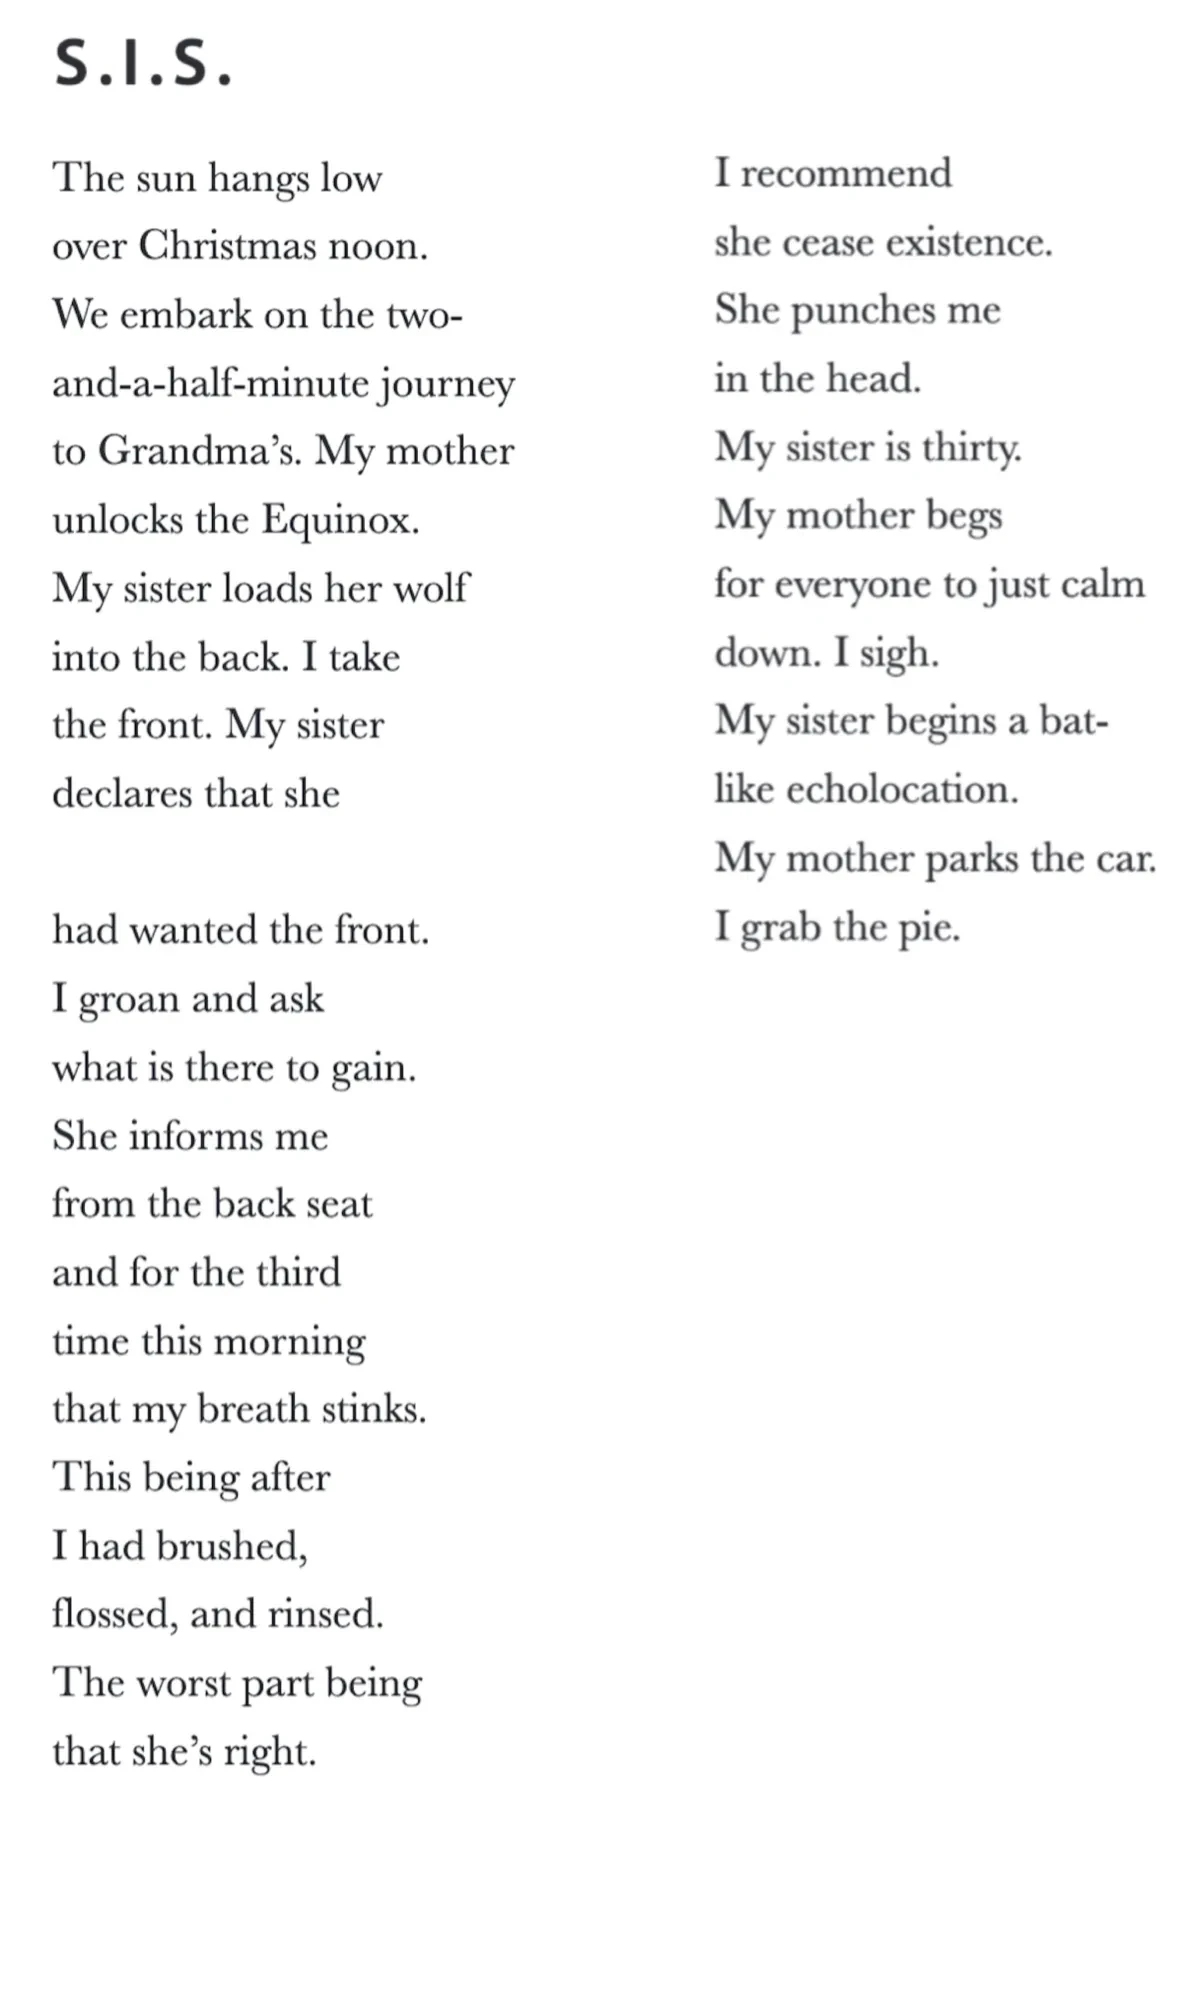
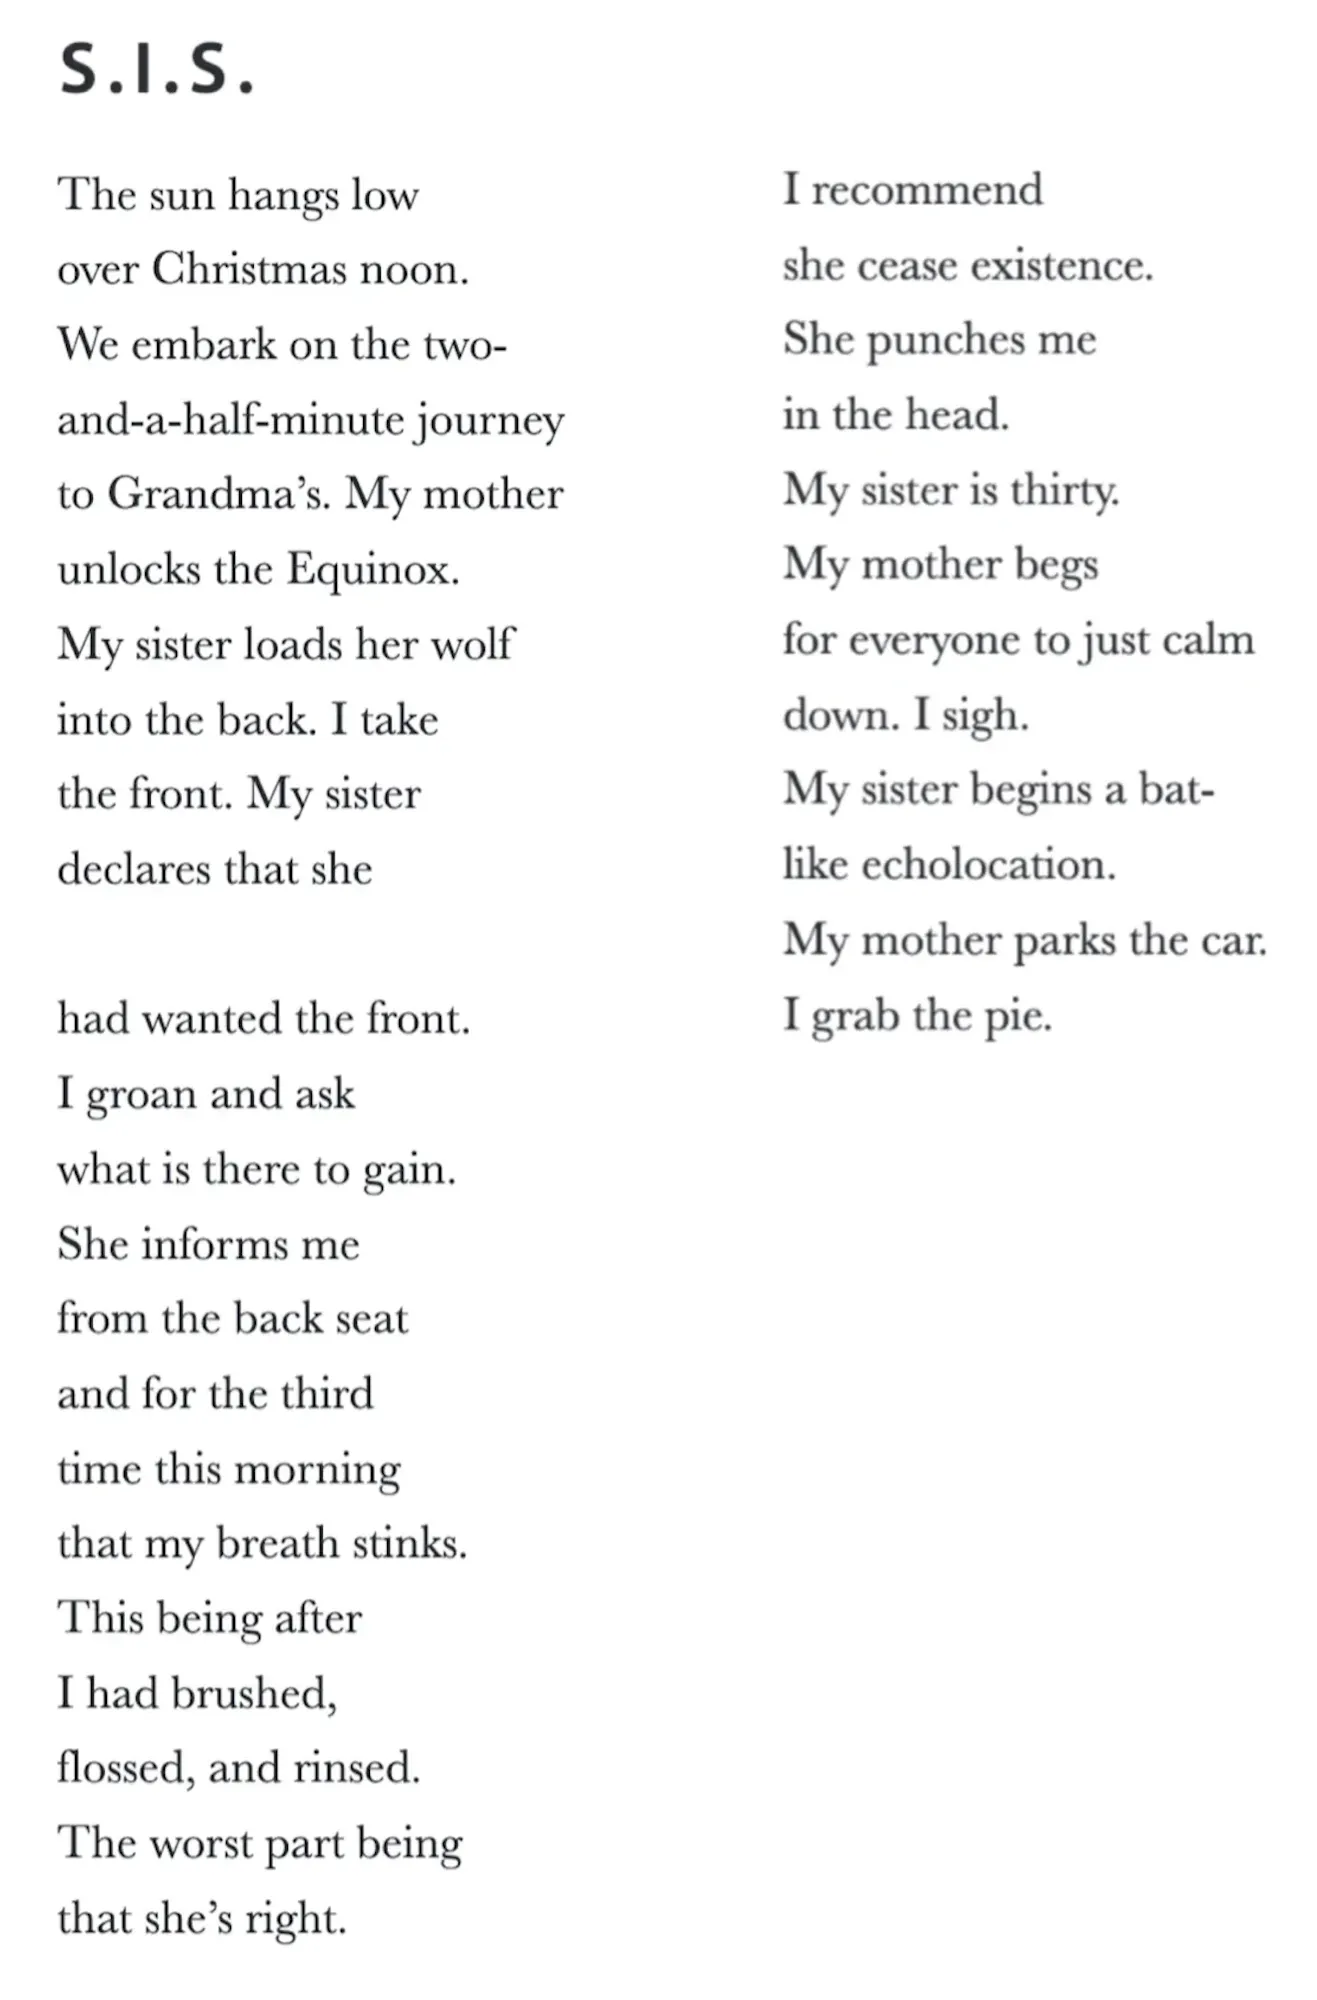
Add Protein Style to fiction, migrate remaining images to WebP, and clean clutter

Changed region(s): [[0.0308, 0.0, 0.4309, 0.992], [0.5849, 0.062, 0.9542, 0.527], [0.0616, 0.961, 0.0923, 0.992]]

diff --git a/index.html b/index.html
@@ -74,6 +74,7 @@ img{max-width:100%;height:auto;object-fit:cover;width:500px} img[src*="Favicon"]
 <div class="pub-entry"><a href="http://hawaiipacificreview.org/2021/04/05/on-letting-go"><img src="images/HawaiiPacificReview.webp" alt="Hawaii Pacific Review"></a><div class="pub-text"><p>"<a href="images/OnLettingGo.webp" data-embed="image" alt="On Letting Go">On Letting Go</a>," <em>Hawaii Pacific Review</em>, Hawaii Pacific University, Online, April 2021</p></div></div>
 <div class="pub-entry"><img src="images/NewReaderMagazine.webp" alt="New Reader Magazine"><div class="pub-text"><p>"<a href="images/BeforeDiFaras.webp" data-embed="image" alt="Before Di Fara's">Before Di Fara's</a>" & "<a href="images/WatchingEpisodesOfChoppedJunior.webp" data-embed="image" alt="Watching Episodes of Chopped Junior">Watching Episodes of Chopped Junior</a>," <em>New Reader Magazine</em>, Online, September 2018</p></div></div><br></div>
 <h2 id="fiction" class="collapsible" onclick="toggleSection(this)">Fiction<span class="arrow">&#9662;</span></h2><div class="section-content">
+<div class="pub-entry"><img src="images/PortlandReview.webp" alt="Portland Review"><div class="pub-text"><p>"Protein Style," <em>Portland Review</em>, Portland State University, Flash Fiction, Online, Forthcoming, January 2027</p></div></div>
 <div class="pub-entry"><a href="https://casit.bgsu.edu/midamericanreview/latest-issue-2/"><img src="images/MidAmericanReview.webp" alt="Mid-American Review"></a><div class="pub-text"><p>"<a href="images/BearInMind.webp" data-embed="image" alt="Bear in Mind">Bear in Mind</a>," <em>Mid-American Review</em>, Bowling Green State University, Flash Fiction, Print, May 2026</p></div></div>
 <div class="pub-entry"><a href="https://www.columbiajournal.org/fiction-column/dirty-pawlitics"><img src="images/DirtyPawliticsArt.webp" alt="Dirty Pawlitics Art"></a><div class="pub-text"><p>"<a href="images/DirtyPawlitics.webp" data-embed="image" alt="Dirty Pawlitics">Dirty Pawlitics</a>," <em>Columbia Journal</em>, Columbia University, Flash Fiction, Online, November 2025</p></div></div>
 <div class="pub-entry"><a href="http://carteblanchemagazine.com/issue-51/moyer-the-chronicles-of-jackie-flapjacks"><img src="images/CarteBlancheMagazine.webp" alt="Carte Blanche Magazine"></a><div class="pub-text"><p>"<a href="images/TheChroniclesOfJackieFlapjacks.webp" data-embed="image" alt="The Chronicles of Jackie Flapjacks">The Chronicles of Jackie Flapjacks</a>," <em>Carte Blanche Magazine</em>, Flash Fiction, Online, June 2025</p></div></div><br></div>
@@ -94,10 +95,10 @@ img{max-width:100%;height:auto;object-fit:cover;width:500px} img[src*="Favicon"]
 <div id="performance-embed" class="embed-box embed-video"><iframe src="https://www.youtube.com/embed/8zkVoLmDIWk?si=51hCwTwPrT8mDNQE" title="YouTube video player" frameborder="0" allow="accelerometer; autoplay; clipboard-write; encrypted-media; gyroscope; picture-in-picture; web-share" referrerpolicy="strict-origin-when-cross-origin" allowfullscreen></iframe></div><br></div>
 <h2 id="gizmos" class="collapsible" onclick="toggleSection(this)">Gizmos<span class="arrow">&#9662;</span></h2><div class="section-content">
 <div class="pub-entry"><a href="https://erikjosephmoyer.com/audiobooker/"><img src="images/Audiobooker.webp" alt="Audiobook Player"></a><div class="pub-text"><p><a href="#" data-embed="gizmo" data-src="/audiobooker/?embed=1">The Jibberjabberer</a>, Audiobook Player, <em>Hear With Your Ears</em></p></div></div>
-<div class="pub-entry"><a href="https://erikjosephmoyer.com/typesetter/"><img src="images/Typesetter.PNG" alt="Typesetter"></a><div class="pub-text"><p><a href="#" data-embed="gizmo" data-src="/typesetter/?embed=1">The Prettifier</a>, Typesetter, <em>Read With Your Eyes</em></p></div></div>
+<div class="pub-entry"><a href="https://erikjosephmoyer.com/typesetter/"><img src="images/Typesetter.webp" alt="Typesetter"></a><div class="pub-text"><p><a href="#" data-embed="gizmo" data-src="/typesetter/?embed=1">The Prettifier</a>, Typesetter, <em>Read With Your Eyes</em></p></div></div>
 <div class="pub-entry"><a href="https://erikjosephmoyer.com/narrator/"><img src="images/TextToSpeecher.webp" alt="Text-to-Speech"></a><div class="pub-text"><p><a href="#" data-embed="gizmo" data-src="/narrator/?embed=1">The Rhetoricizer</a>, Text-to-Speecher, <em>Read With Your Ears</em></p></div></div>
 <div class="pub-entry"><a href="https://erikjosephmoyer.com/dictator/"><img src="images/SpeechToTexter.webp" alt="Speech-to-Text"></a><div class="pub-text"><p><a href="#" data-embed="gizmo" data-src="/dictator/?embed=1">The Textualizer</a>, Speech-to-Texter, <em>Write With Your Mouth</em></p></div></div>
-<div class="pub-entry"><a href="https://erikjosephmoyer.com/converter/"><img src="images/Converter.PNG" alt="File Converter"></a><div class="pub-text"><p><a href="#" data-embed="gizmo" data-src="/converter/?embed=1">The Transmogrifier</a>, File Converter, <em>Knead With Your Hands</em></p></div></div>
+<div class="pub-entry"><a href="https://erikjosephmoyer.com/converter/"><img src="images/Converter.webp" alt="File Converter"></a><div class="pub-text"><p><a href="#" data-embed="gizmo" data-src="/converter/?embed=1">The Transmogrifier</a>, File Converter, <em>Knead With Your Hands</em></p></div></div>
 <div class="pub-entry"><a href="https://erikjosephmoyer.com/suite/"><img src="images/Favicon.webp" alt="All-in-One Media Suite"></a><div class="pub-text"><p>The Alphomegenator, All-in-One Media Suite, <em>Imbibe With Your Senses</em></p></div></div>
 <div class="pub-entry" id="app-entry"><a href="https://erikjosephmoyer.com/app/"><img src="images/Favicon.webp" alt="Progressive Web App"></a><div class="pub-text"><p><span id="app-title-container"><a href="#" id="app-entry-title" data-install>The Bibliotecher</a></span>, Web App, <span id="app-entry-tagline"><em>Install With Your Finger</em></span></p></div></div>
 <div class="pub-entry"><a href="https://erikjosephmoyer.com/reader/"><img src="images/Favicon.webp" alt="E-Book/Audiobook Readio"></a><div class="pub-text"><p><a href="#" data-embed="gizmo" data-src="/reader/?embed=1">The Bookcaster</a>, E-Book/Audiobook Readio, <em>Read With Your Brainbox</em></p></div></div>

diff --git a/tech/index.html b/tech/index.html
@@ -51,10 +51,10 @@ img[src*="Logophile"]{width:100px;height:100px;display:block;margin:0 auto 8pt;b
 <div class="entry"><a href="https://www.linkedin.com/school/university-of-virginia/"><img src="/images/UVA.webp" alt="University of Virginia"></a><div class="entry-text"><p class="role">BS, Systems Engineering</p><p class="org">University of Virginia</p><p class="detail">2012 – 2016</p></div></div><br></div>
 <h2 id="apps" class="collapsible" onclick="toggleSection(this)">Apps<span class="arrow">&#9662;</span></h2><div class="section-content plain-role">
 <div class="entry"><a href="/audiobooker/"><img src="/images/Audiobooker.webp" alt="Audiobook Player"></a><div class="entry-text"><p class="role"><a href="#" data-embed="gizmo" data-src="/audiobooker/?embed=1">The Jibberjabberer</a></p><p class="org">Audiobook Player</p><p class="detail">Hear With Your Ears</p></div></div>
-<div class="entry"><a href="/typesetter/"><img src="/images/Typesetter.PNG" alt="Typesetter"></a><div class="entry-text"><p class="role"><a href="#" data-embed="gizmo" data-src="/typesetter/?embed=1">The Prettifier</a></p><p class="org">Typesetter</p><p class="detail">Read With Your Eyes</p></div></div>
+<div class="entry"><a href="/typesetter/"><img src="/images/Typesetter.webp" alt="Typesetter"></a><div class="entry-text"><p class="role"><a href="#" data-embed="gizmo" data-src="/typesetter/?embed=1">The Prettifier</a></p><p class="org">Typesetter</p><p class="detail">Read With Your Eyes</p></div></div>
 <div class="entry"><a href="/narrator/"><img src="/images/TextToSpeecher.webp" alt="Text-to-Speech"></a><div class="entry-text"><p class="role"><a href="#" data-embed="gizmo" data-src="/narrator/?embed=1">The Rhetoricizer</a></p><p class="org">Text-to-Speecher</p><p class="detail">Read With Your Ears</p></div></div>
 <div class="entry"><a href="/dictator/"><img src="/images/SpeechToTexter.webp" alt="Speech-to-Text"></a><div class="entry-text"><p class="role"><a href="#" data-embed="gizmo" data-src="/dictator/?embed=1">The Textualizer</a></p><p class="org">Speech-to-Text</p><p class="detail">Write With Your Mouth</p></div></div>
-<div class="entry"><a href="/converter/"><img src="/images/Converter.PNG" alt="File Converter"></a><div class="entry-text"><p class="role"><a href="#" data-embed="gizmo" data-src="/converter/?embed=1">The Transmogrifier</a></p><p class="org">File Converter</p><p class="detail">Knead With Your Hands</p></div></div>
+<div class="entry"><a href="/converter/"><img src="/images/Converter.webp" alt="File Converter"></a><div class="entry-text"><p class="role"><a href="#" data-embed="gizmo" data-src="/converter/?embed=1">The Transmogrifier</a></p><p class="org">File Converter</p><p class="detail">Knead With Your Hands</p></div></div>
 <div class="entry"><a href="/suite/"><img src="/images/Favicon.webp" alt="All-in-One Media Suite"></a><div class="entry-text"><p class="role">The Alphomegenator</p><p class="org">All-in-One Media Suite</p><p class="detail">Imbibe With Your Senses</p></div></div>
 <div class="entry" id="tech-app-entry"><a href="/app/"><img src="/images/Favicon.webp" alt="The Bibliotecher"></a><div class="entry-text"><p class="role" id="tech-app-role"><a href="#" data-install>The Bibliotecher</a></p><p class="org">Web App</p><p class="detail" id="tech-app-detail">Install With Your Finger</p></div></div>
 <div class="entry"><a href="/reader/"><img src="/images/Favicon.webp" alt="E-Book/Audiobook Readio"></a><div class="entry-text"><p class="role"><a href="#" data-embed="gizmo" data-src="/reader/?embed=1">The Bookcaster</a></p><p class="org">E-Book/Audiobook Readio</p><p class="detail">Read With Your Brainbox</p></div></div>

diff --git a/app/index.html b/app/index.html
@@ -24,10 +24,10 @@ a,a:visited{color:white;text-decoration:underline;cursor:pointer} a:hover{color:
 <div class="site-head"><img class="site-logo" src="/images/Favicon.webp" alt="EM"><h1>Erik's Bibliotech</h1><h2><em>Tap With Your Finger</em>:<span class="sub-break"> </span>A Progressive Web App</h2></div>
 <div class="toc-controls"><button type="button" id="install-btn" class="toc-btn">Install</button></div>
 <div class="pub-entry"><a href="/audiobooker/"><img src="/images/Audiobooker.webp" alt="Audiobook Player"></a><div class="pub-text"><p><a href="#" data-embed="gizmo" data-src="/audiobooker/?embed=1">The Jibberjabberer</a>, Audiobook Player, <em>Hear With Your Ears</em></p></div></div>
-<div class="pub-entry"><a href="/typesetter/"><img src="/images/Typesetter.PNG" alt="Typesetter"></a><div class="pub-text"><p><a href="#" data-embed="gizmo" data-src="/typesetter/?embed=1">The Prettifier</a>, Typesetter, <em>Read With Your Eyes</em></p></div></div>
+<div class="pub-entry"><a href="/typesetter/"><img src="/images/Typesetter.webp" alt="Typesetter"></a><div class="pub-text"><p><a href="#" data-embed="gizmo" data-src="/typesetter/?embed=1">The Prettifier</a>, Typesetter, <em>Read With Your Eyes</em></p></div></div>
 <div class="pub-entry"><a href="/narrator/"><img src="/images/TextToSpeecher.webp" alt="Text-to-Speech"></a><div class="pub-text"><p><a href="#" data-embed="gizmo" data-src="/narrator/?embed=1">The Rhetoricizer</a>, Text-to-Speecher, <em>Read With Your Ears</em></p></div></div>
 <div class="pub-entry"><a href="/dictator/"><img src="/images/SpeechToTexter.webp" alt="Speech-to-Text"></a><div class="pub-text"><p><a href="#" data-embed="gizmo" data-src="/dictator/?embed=1">The Textualizer</a>, Speech-to-Texter, <em>Write With Your Mouth</em></p></div></div>
-<div class="pub-entry"><a href="/converter/"><img src="/images/Converter.PNG" alt="File Converter"></a><div class="pub-text"><p><a href="#" data-embed="gizmo" data-src="/converter/?embed=1">The Transmogrifier</a>, File Converter, <em>Knead With Your Hands</em></p></div></div>
+<div class="pub-entry"><a href="/converter/"><img src="/images/Converter.webp" alt="File Converter"></a><div class="pub-text"><p><a href="#" data-embed="gizmo" data-src="/converter/?embed=1">The Transmogrifier</a>, File Converter, <em>Knead With Your Hands</em></p></div></div>
 <div class="pub-entry"><a href="/reader/"><img src="/images/Favicon.webp" alt="E-Book/Audiobook Readio"></a><div class="pub-text"><p><a href="#" data-embed="gizmo" data-src="/reader/?embed=1">The Bookcaster</a>, E-Book/Audiobook Readio, <em>Read With Your Brainbox</em></p></div></div>
 <div class="pub-entry"><a href="/scanner/"><img src="/images/Favicon.webp" alt="OCR Tool"></a><div class="pub-text"><p><a href="#" data-embed="gizmo" data-src="/scanner/?embed=1">The Decipherer</a>, Optical Character Recognizer, <em>See With Your Eyes</em></p></div></div>
 <div class="pub-entry"><a href="/translator/"><img src="/images/Favicon.webp" alt="Interpretive Tool"></a><div class="pub-text"><p><a href="#" data-embed="gizmo" data-src="/translator/?embed=1">The Linguifier</a>, Interpretive Tool, <em>Speak With Your Tongue</em></p></div></div>

diff --git a/typesetter/index.html b/typesetter/index.html
@@ -44,7 +44,7 @@ select:focus{outline:none}
 <link rel="stylesheet" href="/site.css?v=7"><script src="/site.js?v=7"></script>
 </head>
 <body>
-<div class="site-head"><img class="site-logo" src="/images/TypesetterLogo.PNG" alt="Typesetter" style="width:100px;height:100px;display:block;margin:0 auto 8pt;border-radius:50%"><h1>Erik's Prettifier</h1><h2><em>Read With Your Eyes</em>:<span class="sub-break"> </span>A Typesetting Tool</h2></div>
+<div class="site-head"><img class="site-logo" src="/images/TypesetterLogo.webp" alt="Typesetter" style="width:100px;height:100px;display:block;margin:0 auto 8pt;border-radius:50%"><h1>Erik's Prettifier</h1><h2><em>Read With Your Eyes</em>:<span class="sub-break"> </span>A Typesetting Tool</h2></div>
 
 <button id="upload-btn" onclick="document.getElementById('file-input').click()">Upload File</button>
 <input type="file" id="file-input" accept=".txt,.doc,.docx,.pdf,.epub">

diff --git a/converter/index.html b/converter/index.html
@@ -50,7 +50,7 @@ select:focus{outline:none}
 <link rel="stylesheet" href="/site.css?v=7"><script src="/site.js?v=7"></script>
 </head>
 <body>
-<div class="site-head"><img class="site-logo" src="/images/ConverterLogo.PNG" alt="Converter" style="width:100px;height:100px;display:block;margin:0 auto 8pt;border-radius:50%"><h1>Erik's Transmogrifier</h1><h2><em>Knead With Your Hands</em>:<span class="sub-break"> </span>A File Conversion Tool</h2></div>
+<div class="site-head"><img class="site-logo" src="/images/ConverterLogo.webp" alt="Converter" style="width:100px;height:100px;display:block;margin:0 auto 8pt;border-radius:50%"><h1>Erik's Transmogrifier</h1><h2><em>Knead With Your Hands</em>:<span class="sub-break"> </span>A File Conversion Tool</h2></div>
 
 <button id="upload-btn" onclick="document.getElementById('file-input').click()">Upload File</button>
 <input type="file" id="file-input">
